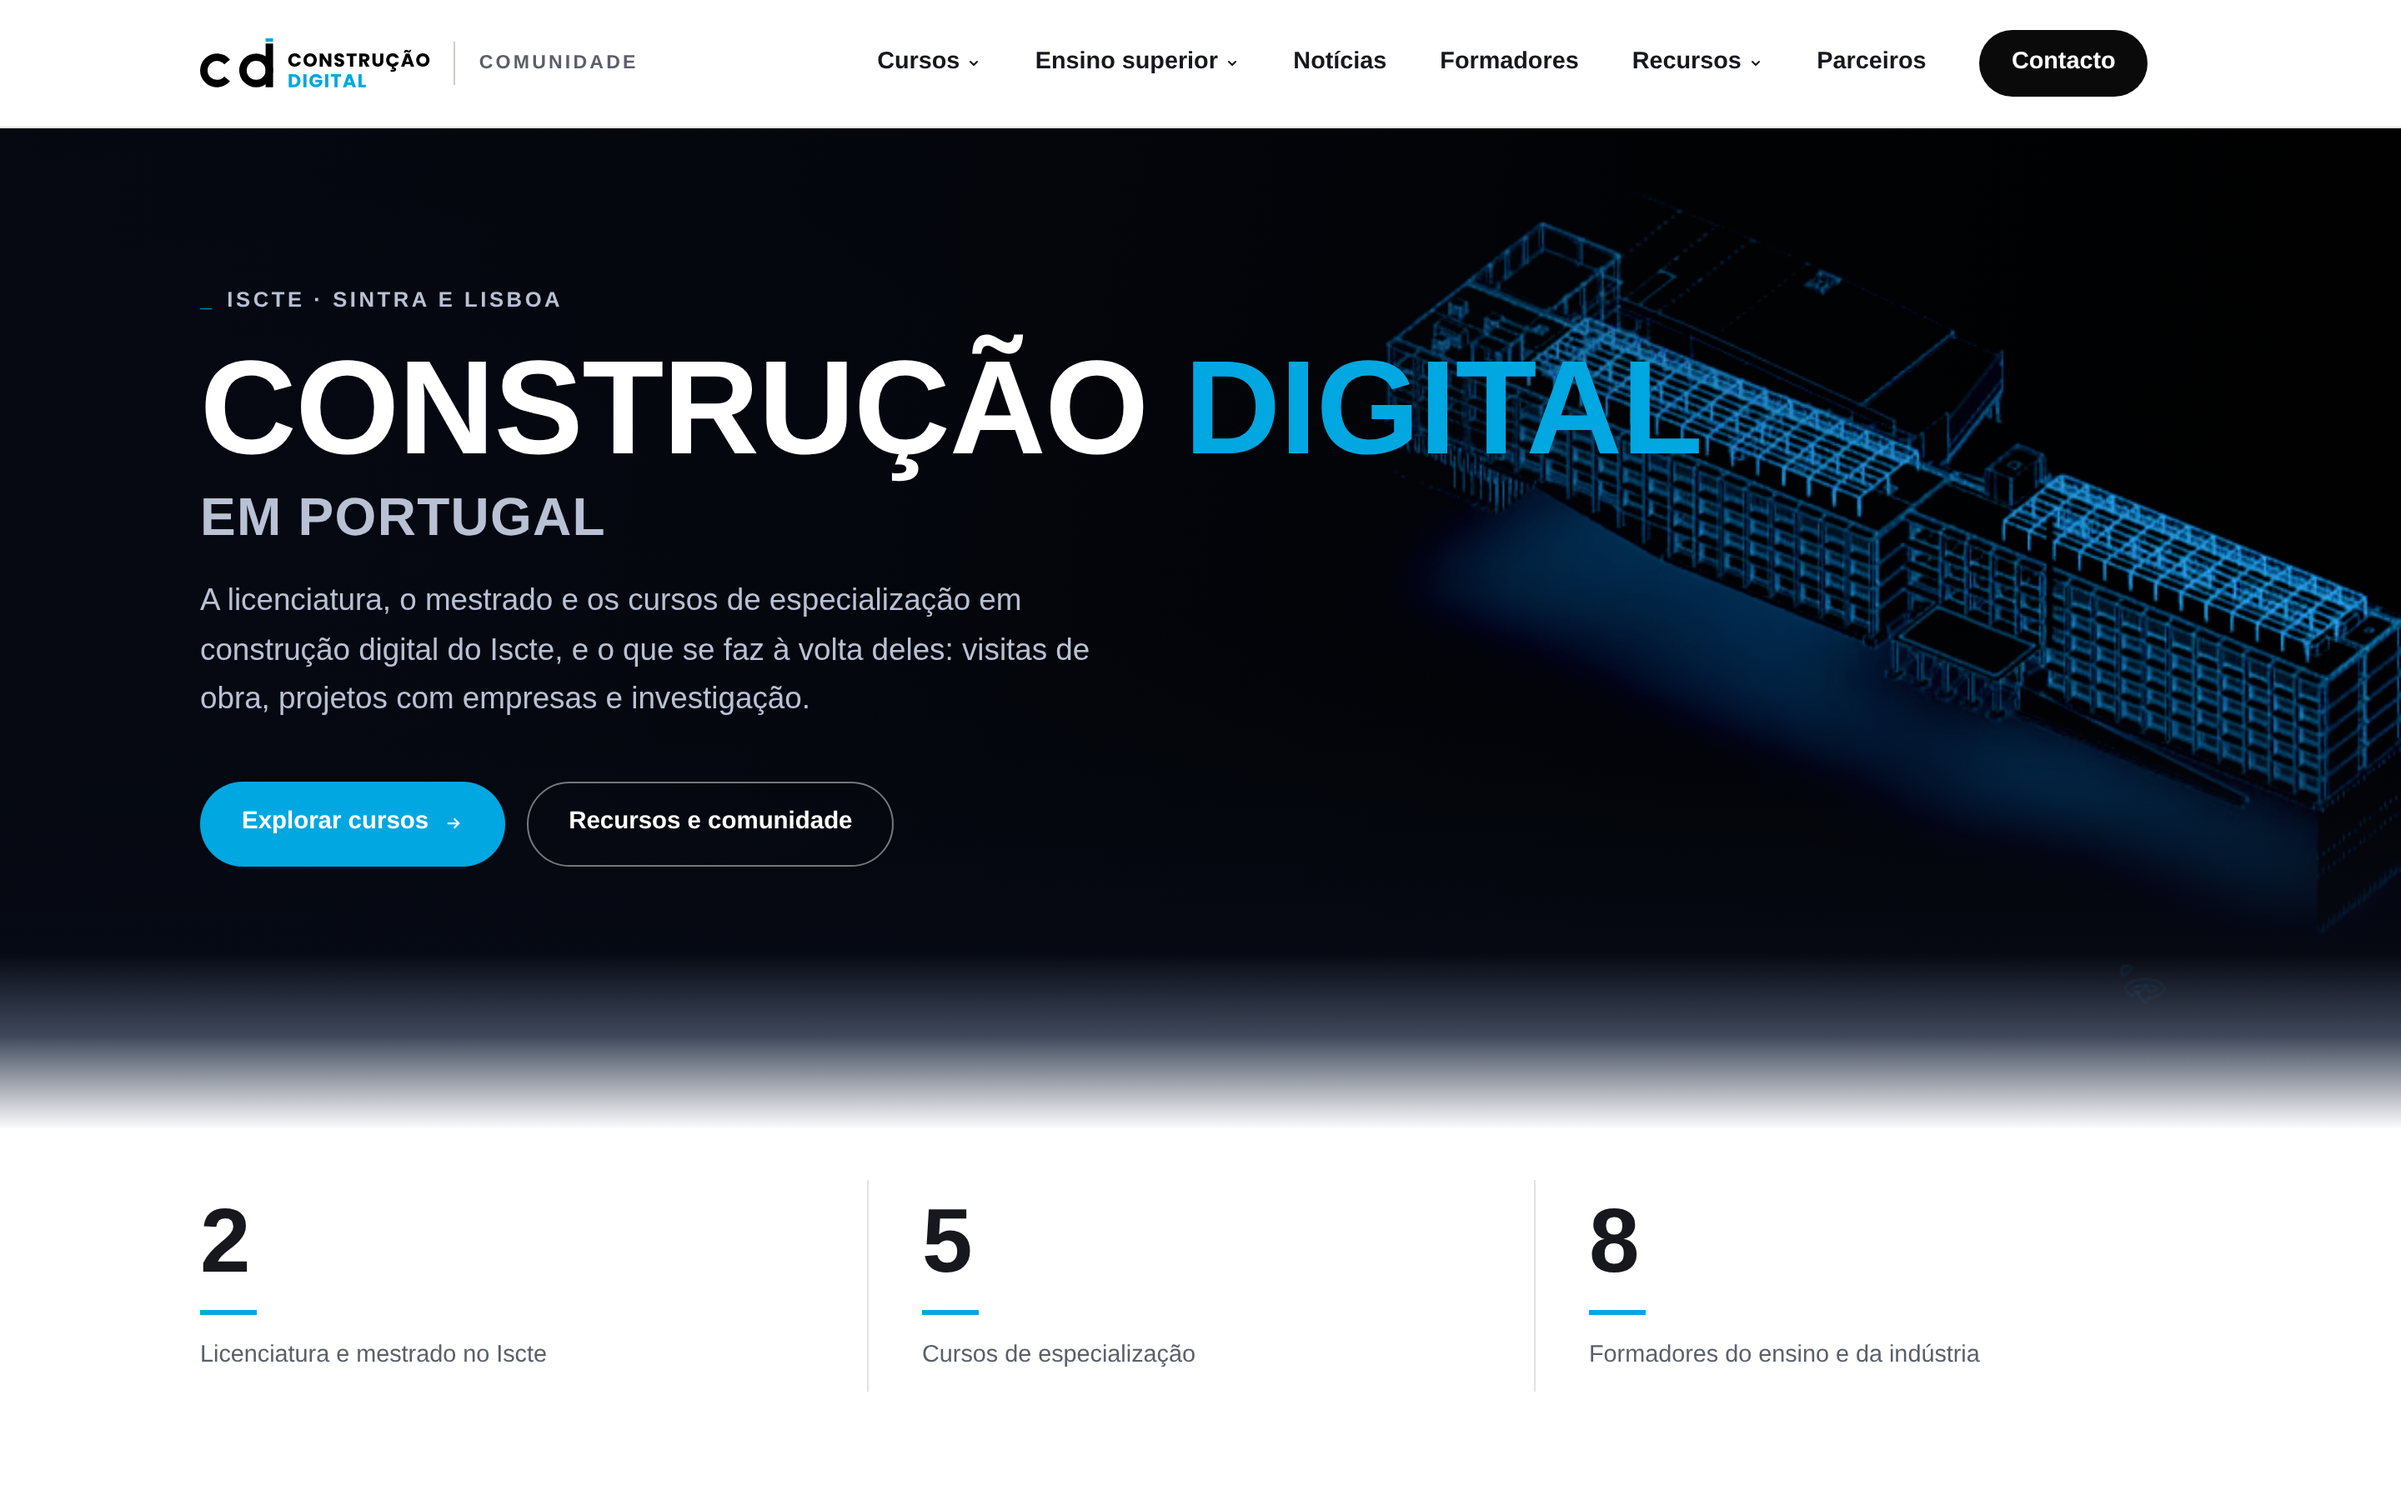
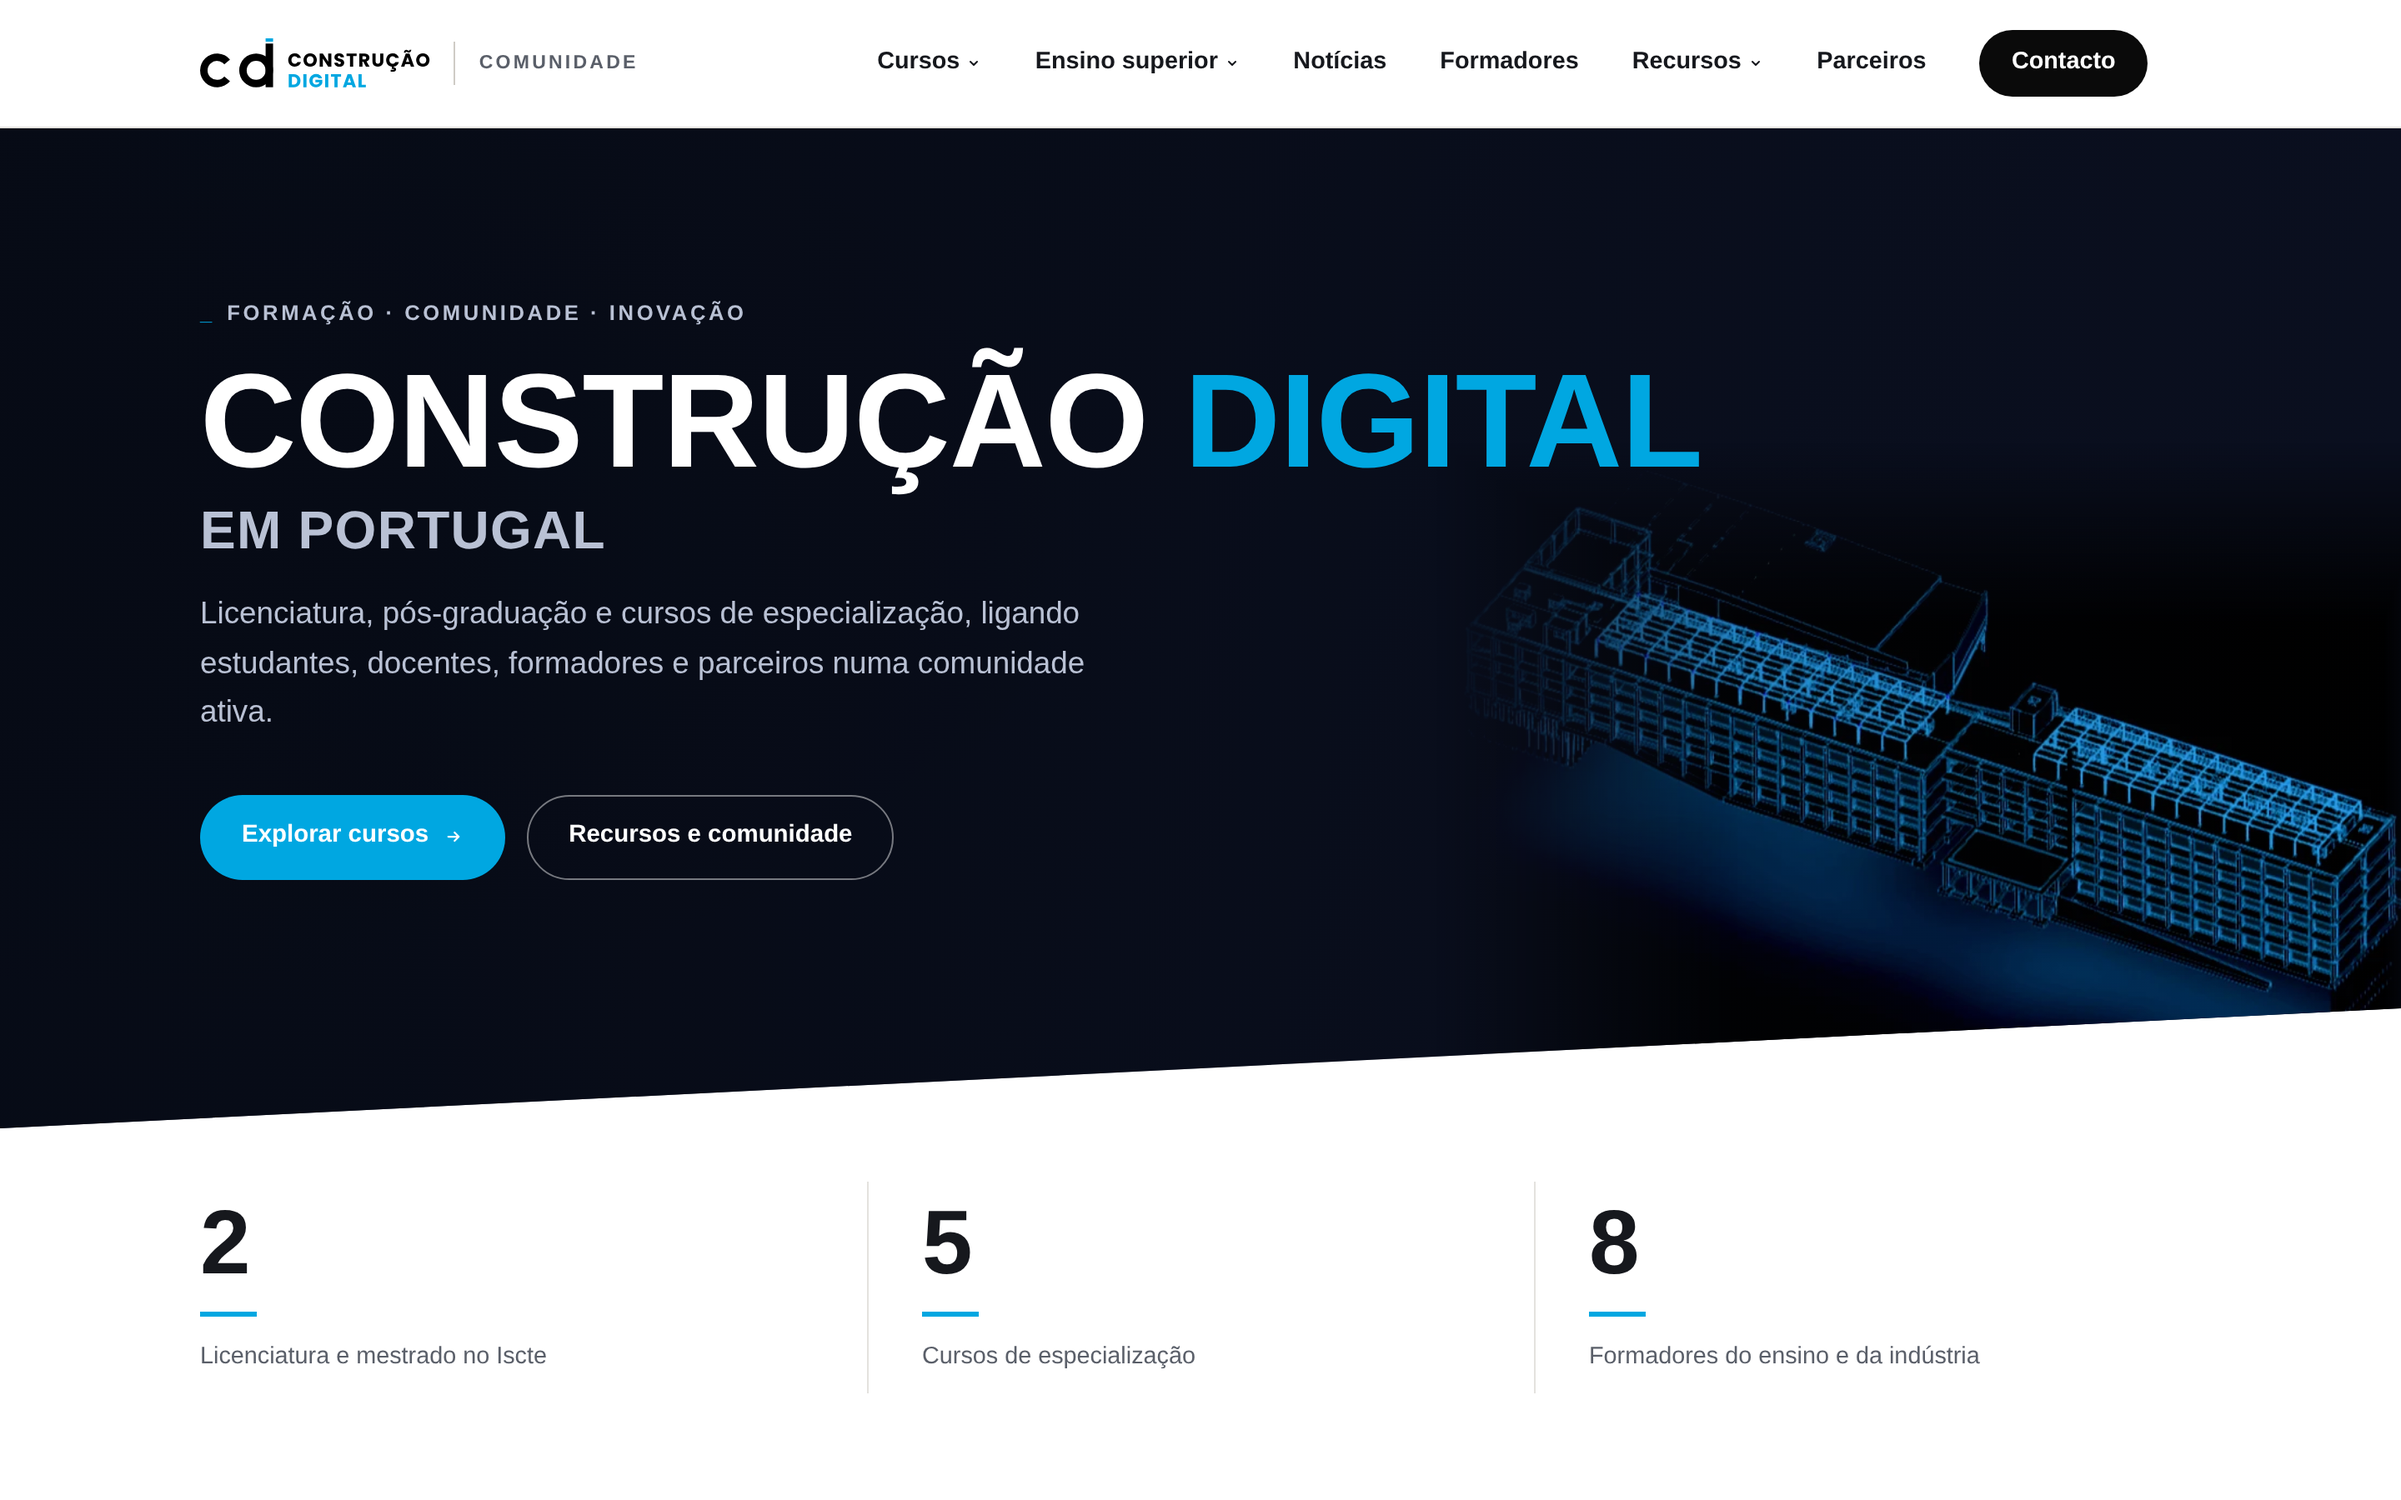
Ilustração própria no topo, com gruas
Sai a imagem tirada do vídeo, entra uma ilustração desenhada de raiz em
SVG: estrutura em betão com pilares, lajes e fachada envidraçada, duas
gruas torre com carga suspensa, materiais no estaleiro, brilho de fundo
e etiquetas IFC, ISO 19650 e LCA ligadas ao modelo.

Feita por código, por isso é nítida em qualquer ecrã e pesa 10 KB
comprimida. Altura do topo deixa de depender da altura do ecrã e o
título passa a 3,6rem no máximo.

Claude-Session: https://claude.ai/code/session_01Co6nHqUHrwGTWwpJGR2PDN

Changed region(s): [[0.0, 0.0622, 1.0, 0.7778], [0.6562, 0.8711, 0.6875, 0.9022]]

diff --git a/assets/css/style.css b/assets/css/style.css
@@ -490,7 +490,7 @@ p {
   overflow: hidden;
   display: flex;
   align-items: center;
-  min-height: min(600px, calc(100vh - 76px - 215px));
+  min-height: 560px;
   background:
     radial-gradient(900px 480px at 85% 10%, rgba(0, 167, 225, 0.22), transparent 60%),
     radial-gradient(700px 420px at 10% 100%, rgba(13, 40, 194, 0.35), transparent 60%),
@@ -535,7 +535,7 @@ p {
 }
 
 .h1-brand {
-  font-size: clamp(2.4rem, 6.4vw, 5rem);
+  font-size: clamp(2.1rem, 4.6vw, 3.6rem);
 }
 
 .h1-accent {
@@ -543,7 +543,7 @@ p {
 }
 
 .h1-tail {
-  font-size: clamp(1.3rem, 2.6vw, 2rem);
+  font-size: clamp(1.1rem, 2.1vw, 1.6rem);
   font-weight: 600;
   letter-spacing: 0.02em;
   color: var(--hero-muted);
@@ -1722,7 +1722,7 @@ p {
   }
 
   .hero {
-    min-height: calc(100vh - 64px - 290px);
+    min-height: 480px;
     padding: 2rem 0 3.5rem;
     clip-path: polygon(0 0, 100% 0, 100% 94%, 0 100%);
   }
@@ -1815,34 +1815,6 @@ p {
   .footer-grid {
     grid-template-columns: 1fr;
     gap: 2rem;
-  }
-}
-
-/* Ecrãs baixos: hero mais compacto para os números caberem sem scroll */
-@media (min-width: 601px) and (max-height: 860px) {
-  .hero {
-    min-height: 0;
-    padding: 1.8rem 0 3.4rem;
-  }
-
-  .h1-brand {
-    font-size: clamp(2.2rem, 5vw, 3.6rem);
-  }
-
-  .h1-tail {
-    font-size: clamp(1.1rem, 2.2vw, 1.6rem);
-  }
-
-  .hero .lead {
-    font-size: 0.95rem;
-  }
-
-  .hero-actions {
-    margin-top: 1.5rem;
-  }
-
-  .stat strong {
-    font-size: 2.3rem;
   }
 }
 
@@ -2544,9 +2516,9 @@ p {
 /* Imagem do modelo no topo da página inicial */
 
 .hero-modelo {
-  /* Para trocar a imagem, substitui assets/img/topo-modelo.webp */
+  /* Ilustração do topo. Para trocar, substitui assets/img/modelo-bim.svg */
   background:
-    url('../img/topo-modelo.webp') right -3% bottom -6% / 42% auto no-repeat,
+    url('../img/modelo-bim.svg') right -3% bottom -4% / 46% auto no-repeat,
     var(--hero-bg);
 }
 
@@ -2570,8 +2542,8 @@ p {
 
 @media (max-width: 860px) {
   .hero-modelo {
-    background-size: 82% auto;
-    background-position: right -12% bottom -4%;
+    background-size: 94% auto;
+    background-position: right -6% bottom 4%;
   }
 
   .hero-veu {
